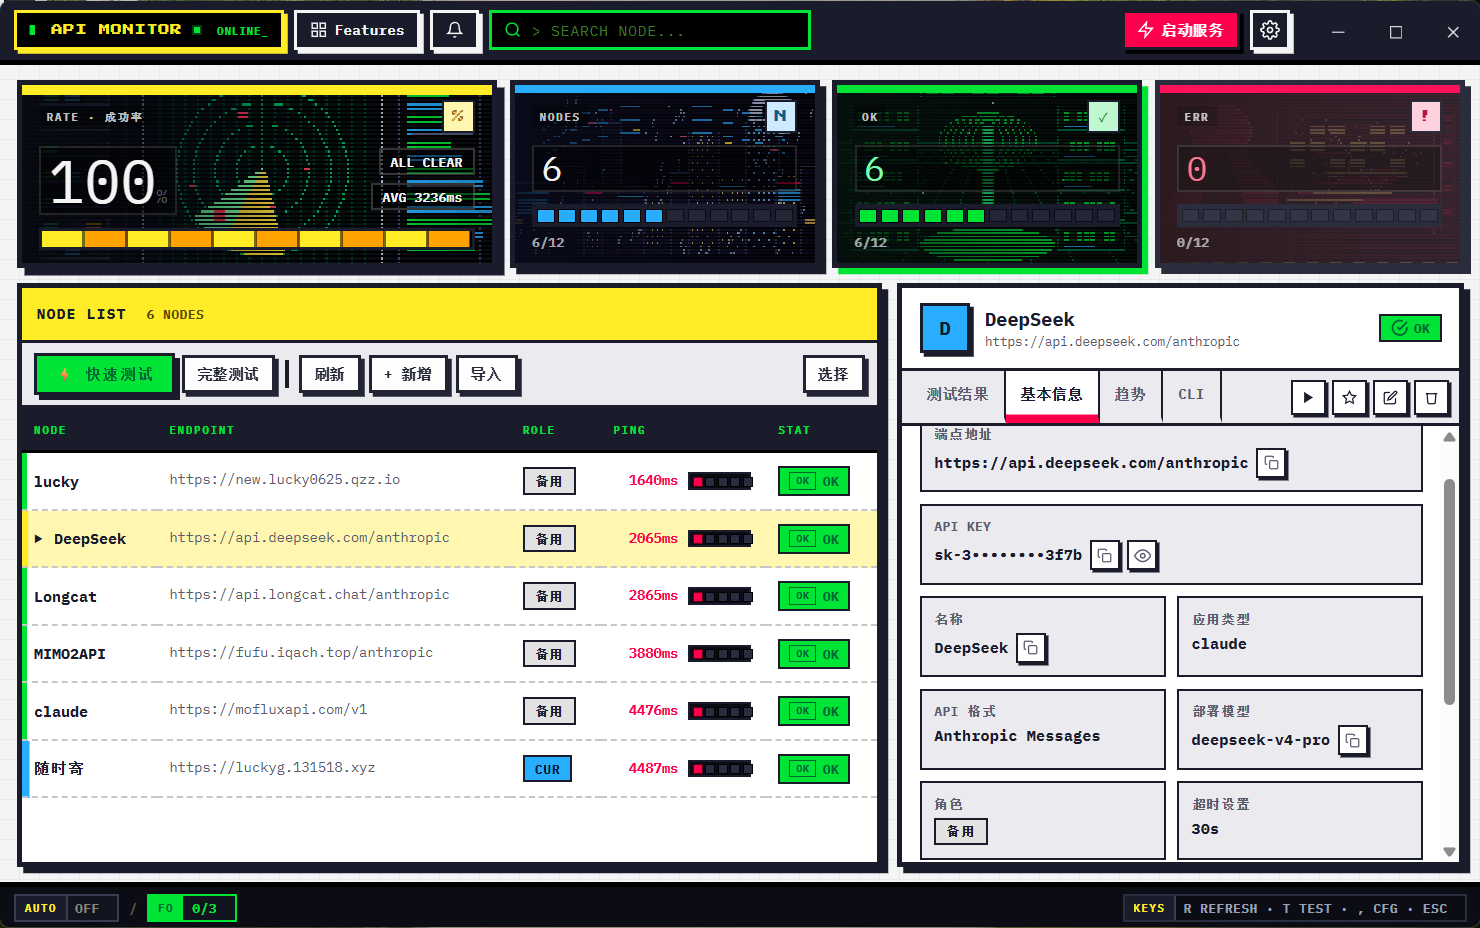
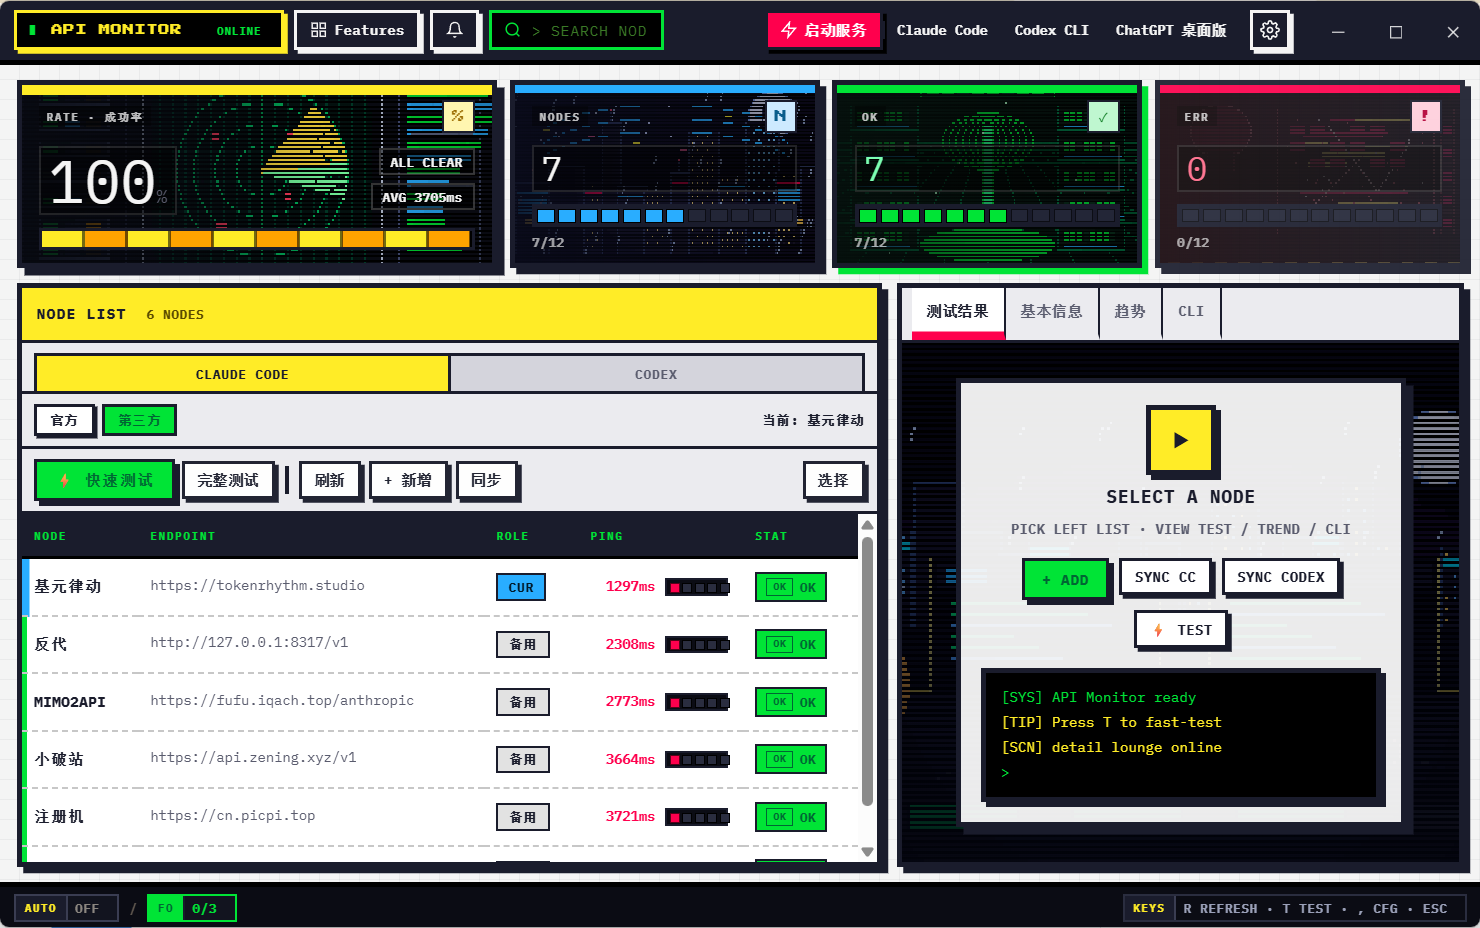
docs: 更新截图与 README — 双应用架构 + 推理强度/上下文长度
- 替换主页截图为最新界面（Claude Code / Codex 双应用分页）
- README 副标题加入双应用、推理强度、上下文长度
- 功能特性表格新增：双应用架构、推理强度控制、上下文长度设置、配置同步
- 故障转移描述更新为按应用独立切换
- 快速上手步骤更新为新版 UI 操作流程
- 路线图标记已完成项（双应用架构、推理强度/上下文长度、故障切换独立）

diff --git a/README.md b/README.md
@@ -3,7 +3,7 @@
 
   # API Monitor
 
-  **Windows 桌面端 API 供应商监控工具 —— 定时测速 · 故障切换 · 托盘常驻 · 密钥加密**
+  **Windows 桌面端 API 供应商监控工具 —— Claude Code + Codex 双应用 · 定时测速 · 故障切换 · 推理强度/上下文长度控制 · 托盘常驻 · 密钥加密**
 
   [![CI](https://img.shields.io/github/actions/workflow/status/249469326i-lang/api-monitor/ci.yml?branch=main&style=flat-square&label=CI)](https://github.com/249469326i-lang/api-monitor/actions/workflows/ci.yml)
   [![Release](https://img.shields.io/github/v/release/249469326i-lang/api-monitor?style=flat-square)](https://github.com/249469326i-lang/api-monitor/releases)
@@ -40,14 +40,18 @@
 
 | | 功能 | 说明 |
 | --- | --- | --- |
+| 🖥 | **双应用架构** | 同时管理 **Claude Code** 与 **Codex** 两套 AI 编程工具的 API 供应商，各自独立端点/模型/格式/角色 |
 | 📡 | **多供应商监控** | 同时监控多个 API 供应商 / 模型的延迟与可用性，支持 Anthropic / OpenAI / Gemini 等多种 API 格式自动探测 |
+| 🧠 | **推理强度控制** | 为每个供应商设置 reasoning_effort（Low / Medium / High），写入 Claude Code 环境变量与 Codex config.toml |
+| 📏 | **上下文长度设置** | 为每个供应商设置上下文窗口（64K / 128K / 256K / 512K / 1M），匹配 DeepSeek V4 Flash 等大窗口模型 |
 | ⏱ | **定时探测** | 自定义探测间隔，失败自动重试；死端点智能短路，不拖慢整轮测试 |
-| 🔀 | **故障转移** | 主线路异常时自动切换到备用供应商（可配置冷却时间、最大切换次数、切换前确认） |
+| 🔀 | **故障转移** | 主线路异常时自动切换到备用供应商，Claude Code / Codex 各自独立切换（可配置冷却时间、最大切换次数） |
+| 🔄 | **配置同步** | 一键从 Claude Code settings.json / Codex config.toml 导入当前配置；启动菜单直达 Claude Code / Codex CLI / ChatGPT 桌面版 |
 | 📈 | **历史趋势** | 延迟历史、P95、可用率统计与趋势图表 |
 | 🖥 | **托盘常驻** | 最小化到系统托盘，支持开机自启 |
 | 🔐 | **密钥加密** | API Key 使用 Windows DPAPI 本地加密存储，绝不明文落盘，前端仅展示掩码 |
 | 💾 | **备份恢复** | SQLite 在线备份 API 保证一致性，支持自动定期备份 |
-| 📦 | **单文件分发** | 打包为独立 `API-Monitor.exe`，下载即用，无需安装 Python |
+| 📦 | **单文件分发** | 打包为独立 API-Monitor.exe，下载即用，无需安装 Python |
 | 🎨 | **像素风 UI** | 内置像素风格 Web 前端（PyWebView 渲染），字体本地化、离线可用 |
 
 ## 📥 下载与安装
@@ -75,10 +79,12 @@
 
 ## 🚀 快速上手
 
-1. 启动后点击「添加供应商」，填入 API 地址与 Key
-2. 选择需要监控的模型，设置探测间隔
-3. 主面板实时显示各线路延迟与状态，异常时自动故障切换
-4. 关闭窗口自动最小化到托盘，右键托盘图标可退出
+1. 启动后点击「+ 新增」添加供应商，填入 API 地址与 Key
+2. 选择应用类型（Claude Code / Codex），分别配置端点、模型、API 格式
+3. 按需设置推理强度（Low/Medium/High）和上下文长度（64K–1M）
+4. 通过顶部「启动服务」菜单直接启动 Claude Code / Codex CLI / ChatGPT 桌面版
+5. 主面板实时显示各线路延迟与状态，异常时自动故障切换
+6. 关闭窗口自动最小化到托盘，右键托盘图标可退出
 
 ## 🛠 源码运行
 
@@ -173,6 +179,9 @@ python verify_backend.py
 - [x] 全面安全加固（密钥零明文下发、XSS/注入防护、WAL 一致性备份）
 - [x] CI 自动化测试（GitHub Actions）
 - [x] 模块化架构重构（分层 core/）
+- [x] Claude Code + Codex 双应用架构（独立端点/模型/格式/角色）
+- [x] 推理强度与上下文长度控制（reasoning_effort / context_length）
+- [x] 故障切换按应用独立（Claude/Codex 各自切换）
 - [ ] 探测历史图表与数据导出增强
 - [ ] 更多供应商预设模板
 - [ ] 多语言界面（欢迎 PR）
